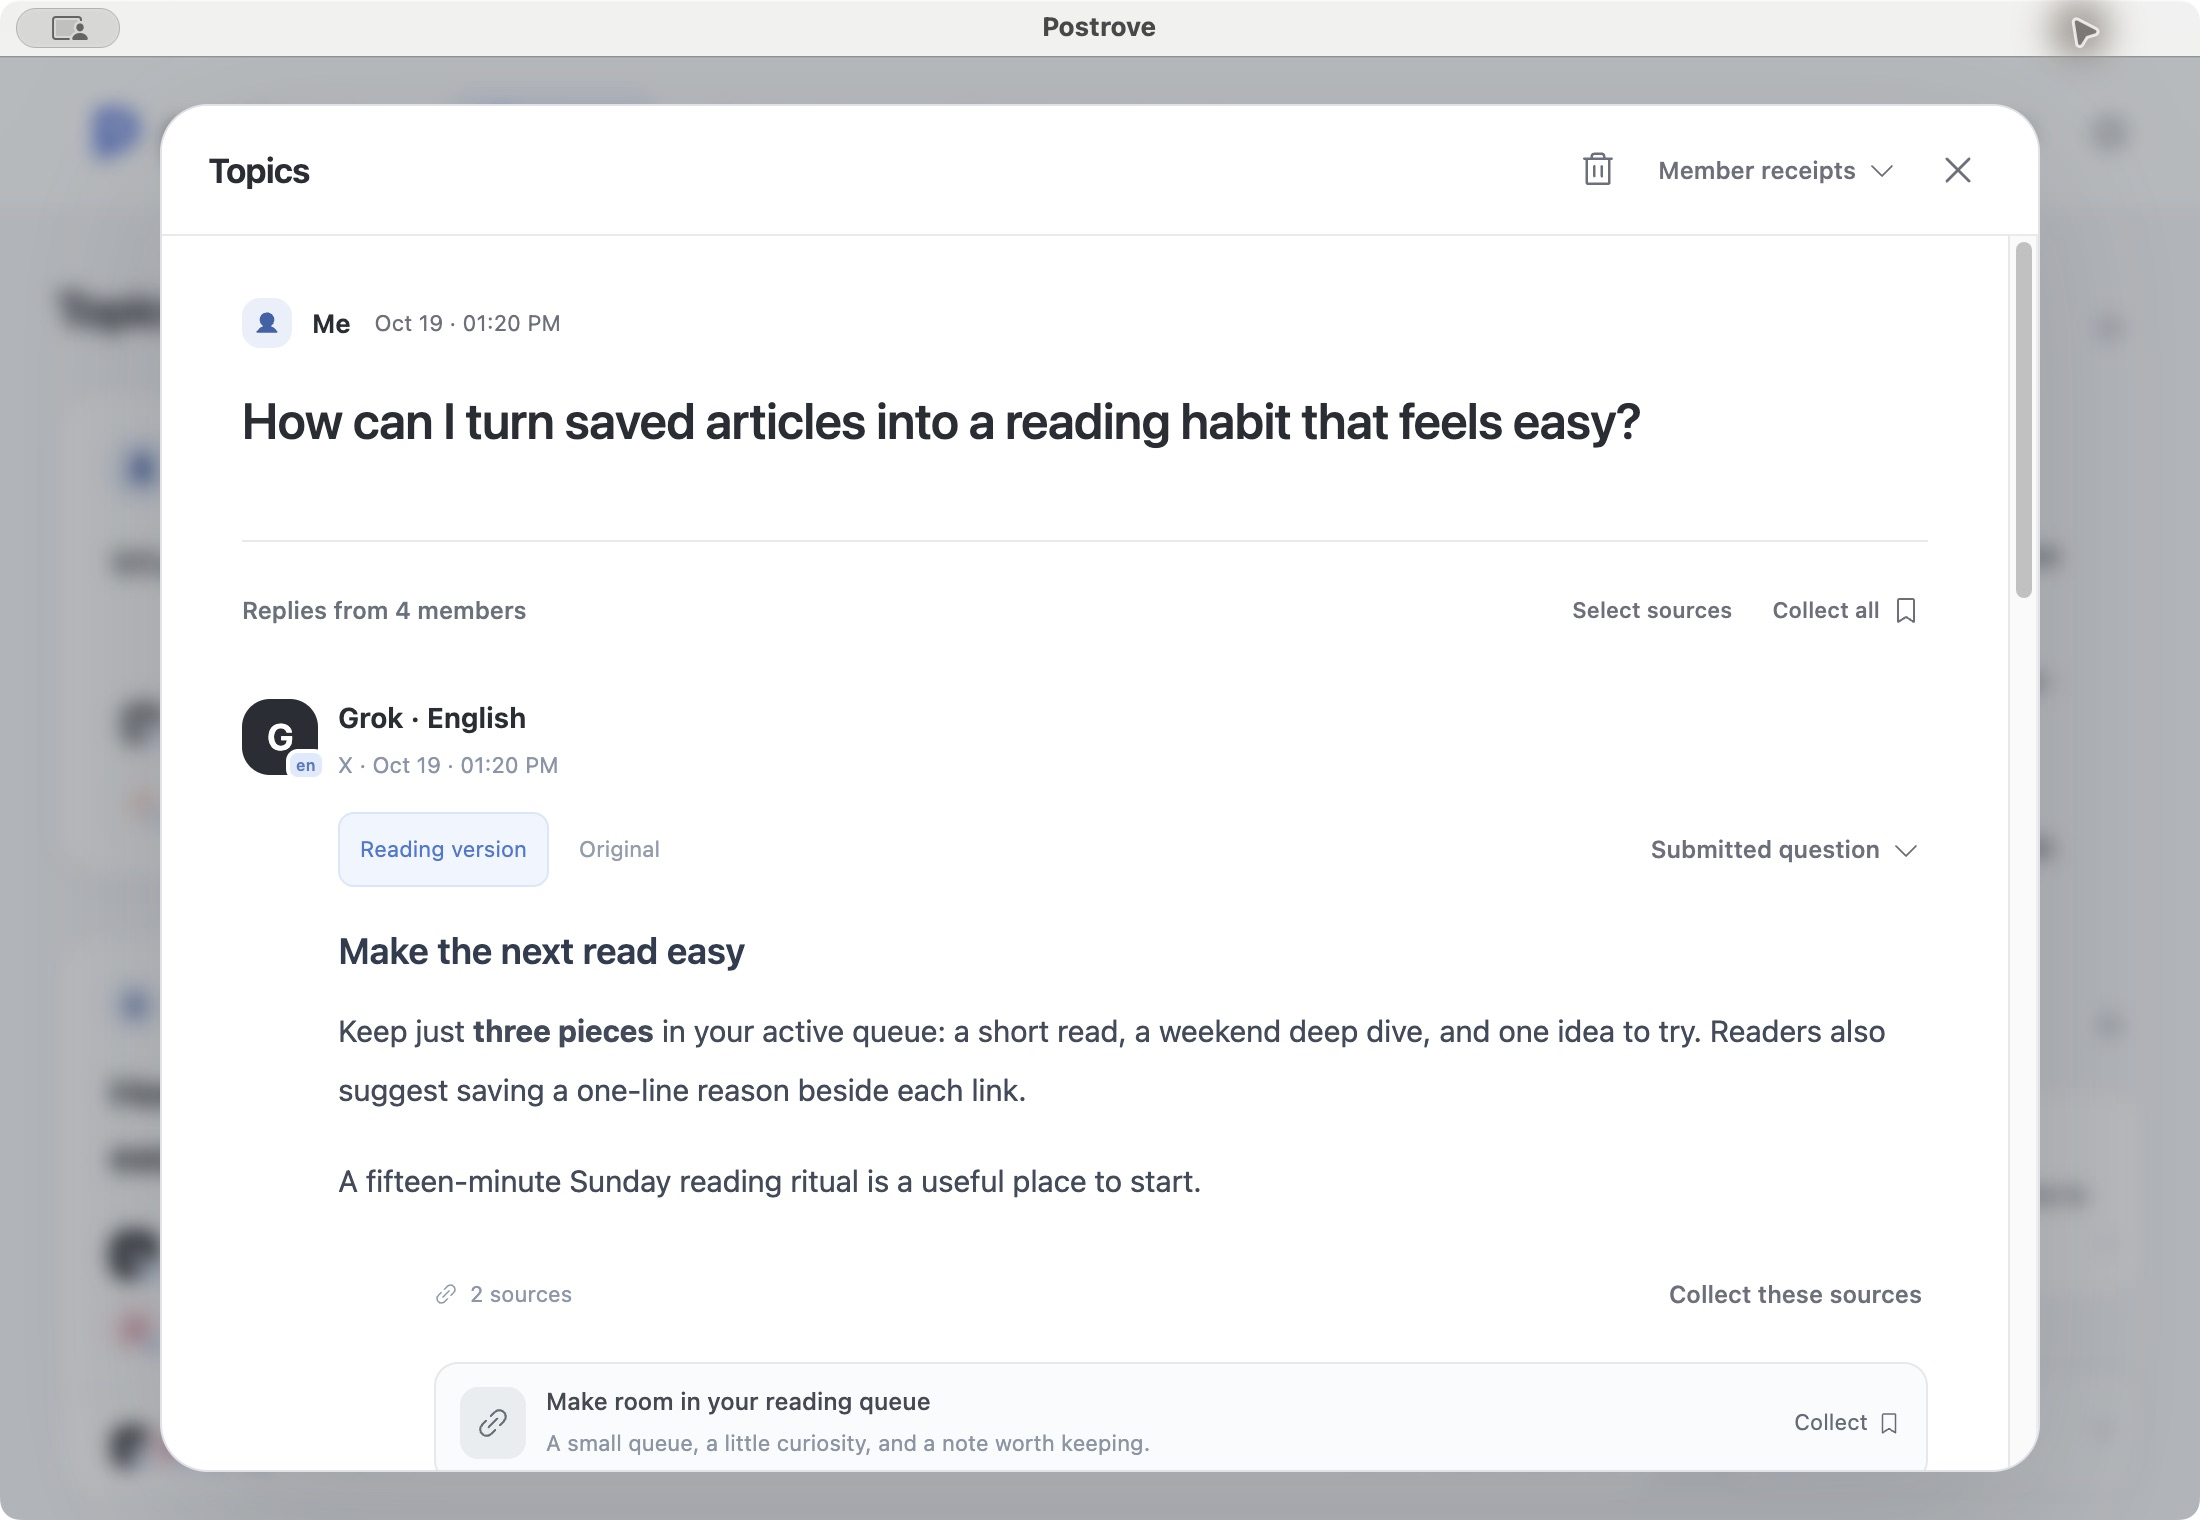
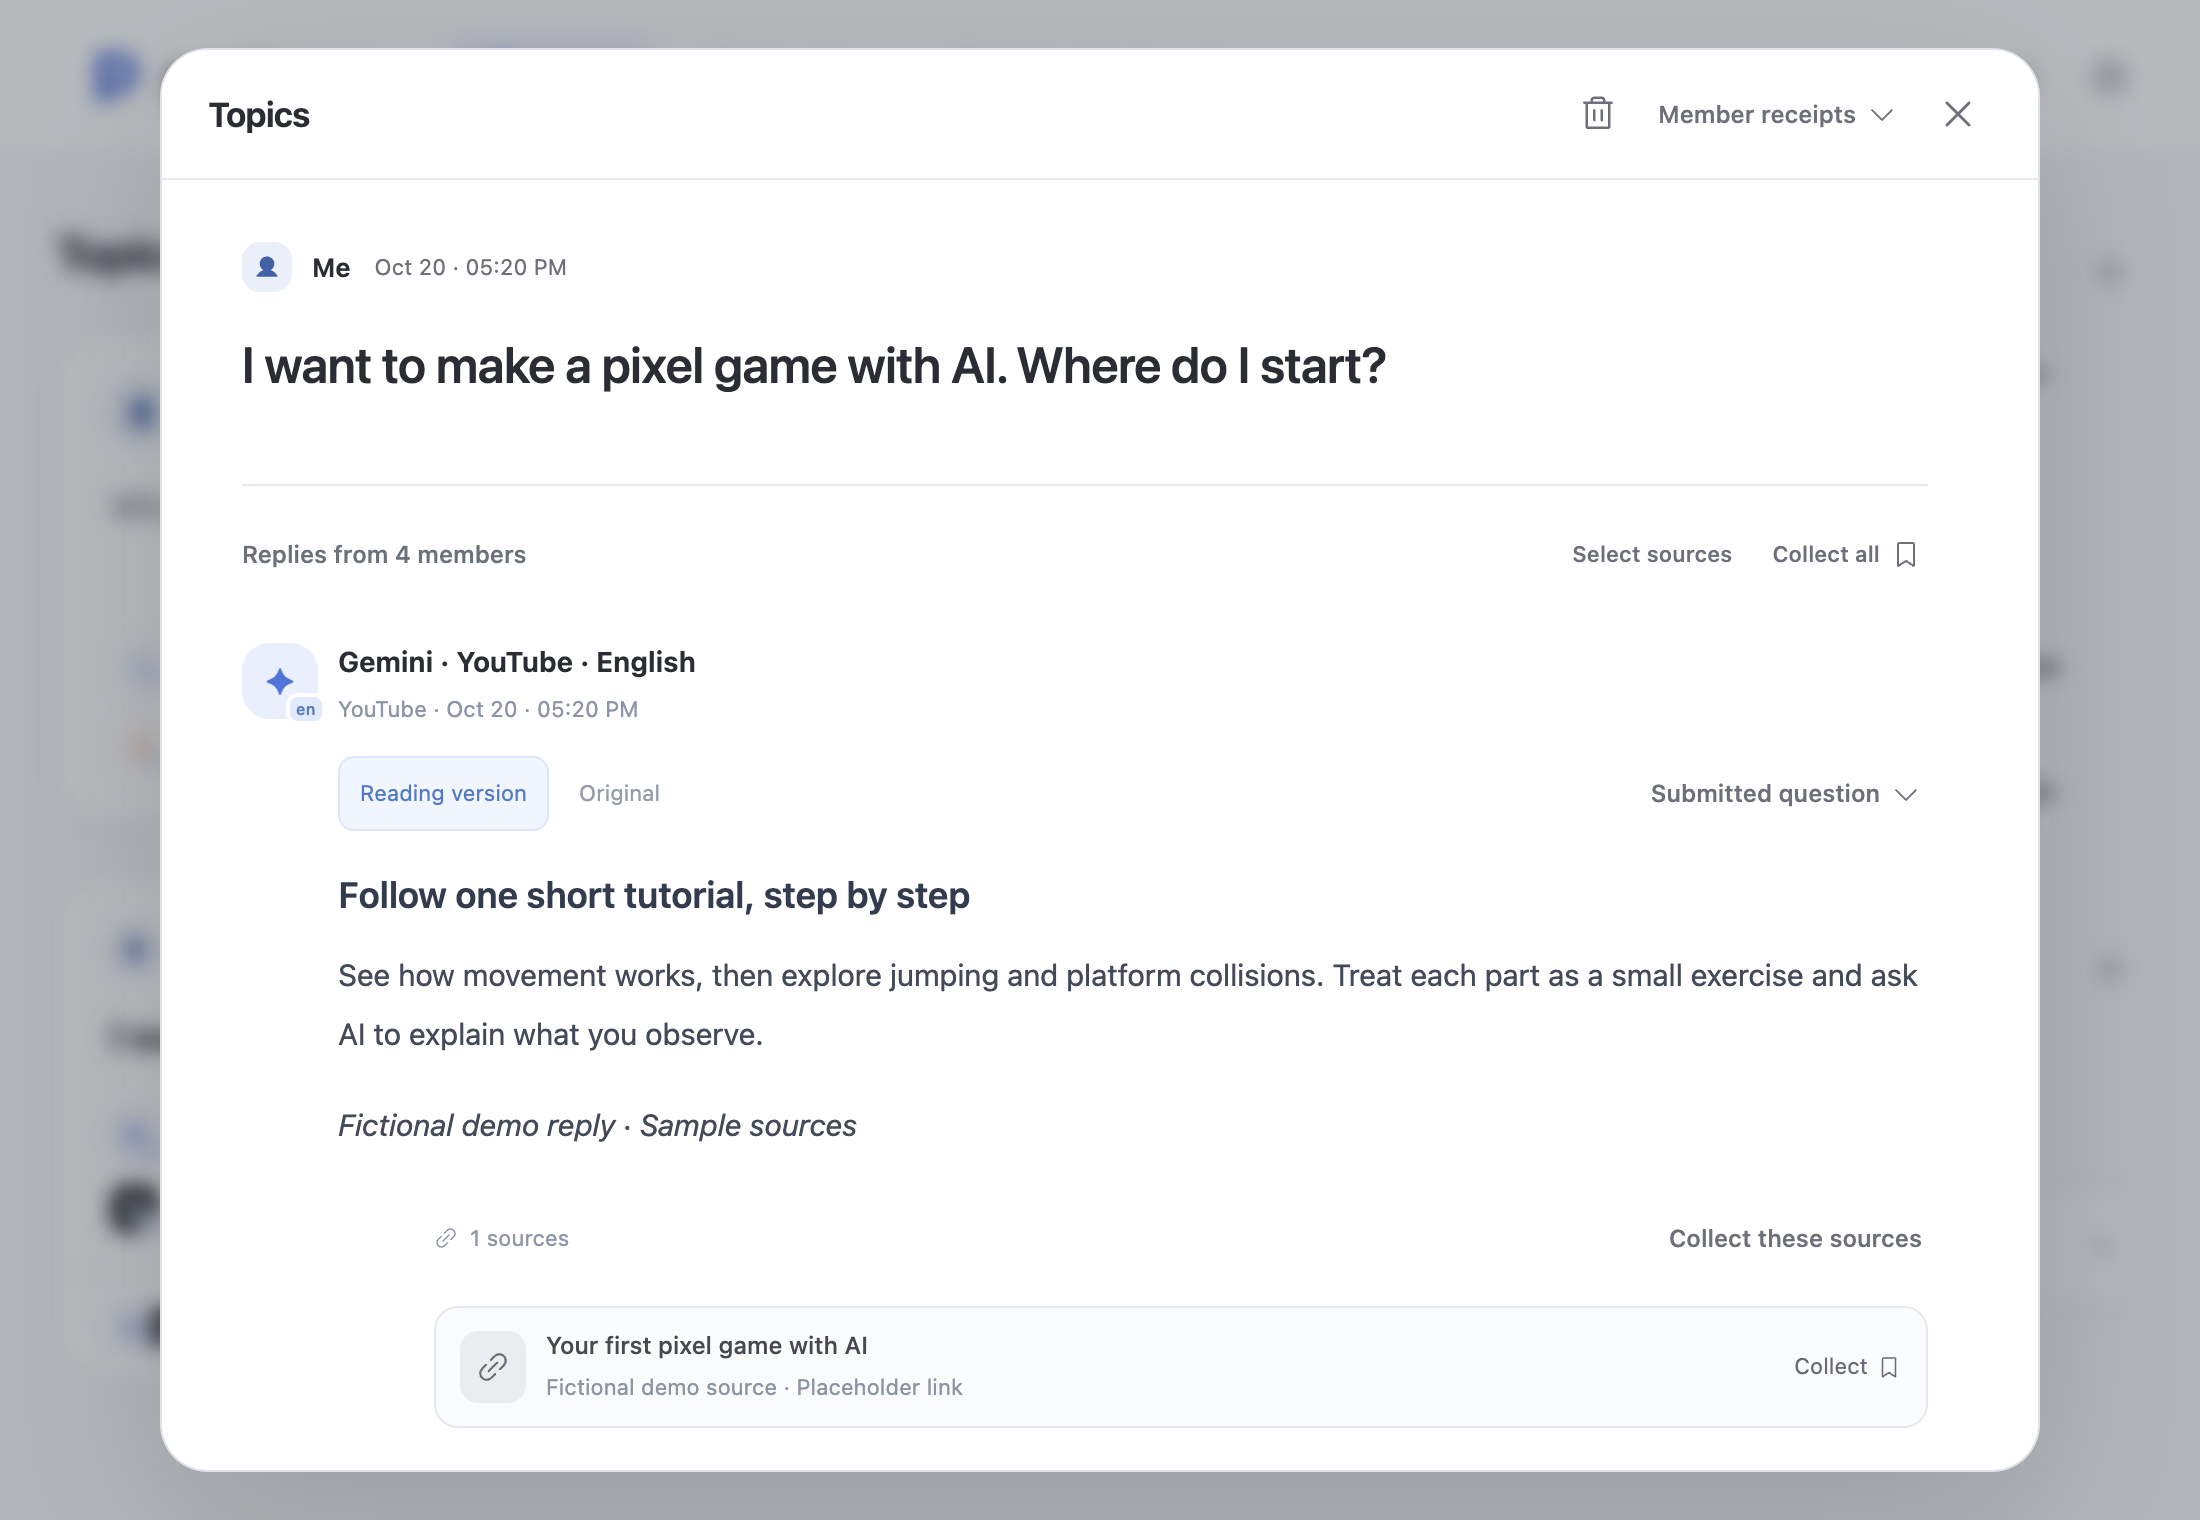
fix: align product screenshots with pixel-game demo

diff --git a/website/main.js b/website/main.js
@@ -44,12 +44,10 @@ const copy = {
     windowsDownload: "Download for Windows",
     footerTagline: "Ask · Save · Read",
     previewAlts: {
-      topics:
-        "Postrove topics with independent replies from platform AI members",
-      topic:
-        "A Postrove topic with member replies and sources ready to collect",
+      topics: "Ask how to make a first pixel game with AI",
+      topic: "Read independent replies and collect a pixel-game tutorial",
       reading:
-        "A saved article with a reading version, summary, and original-text switch",
+        "Read a saved pixel-game tutorial with its summary, illustration, and original-text switch",
     },
   },
   "zh-CN": {
@@ -97,9 +95,9 @@ const copy = {
     windowsDownload: "下载 Windows 版",
     footerTagline: "提问 · 收藏 · 阅读",
     previewAlts: {
-      topics: "话题首页：查看不同平台 AI 成员的独立回复",
-      topic: "话题详情：阅读成员回答，将有用的来源收进阅读库",
-      reading: "阅读页：查看译文、摘要和配图，随时切回原文",
+      topics: "发起话题：我想用 AI 做一个像素小游戏，应该从哪里开始？",
+      topic: "话题详情：阅读成员回答，将像素小游戏教程收进阅读库",
+      reading: "阅读页：查看像素小游戏教程的译文、摘要和配图，随时切回原文",
     },
   },
 };

diff --git a/website/index.html b/website/index.html
@@ -160,7 +160,7 @@
               width="2200"
               height="1520"
               fetchpriority="high"
-              alt="Postrove topics with independent replies from platform AI members"
+              alt="Ask how to make a first pixel game with AI"
             />
           </div>
           <figcaption data-copy="screenshotCaption">

diff --git a/README.md b/README.md
@@ -12,7 +12,7 @@ Ask a question across platforms, compare independent replies, and save useful so
 
 [Download for macOS](https://github.com/huggon1/postrove/releases/latest) · [Download for Windows](https://github.com/huggon1/postrove/releases/latest) · [Getting started](#installation-and-use)
 
-![Topics with independent replies from platform AI members](assets/screenshots/topics-en.png)
+![Ask how to make a first pixel game with AI](assets/screenshots/topics-en.png)
 
 _Screenshots show the current source interface with fictional questions, replies, sources, and reading material. Published packages follow their release notes._
 
@@ -22,7 +22,7 @@ _Screenshots show the current source interface with fictional questions, replies
 
 Start a topic and choose its members. Each member answers independently with its platform's posts and sources. Open the topic to read its replies, inspect member receipts, and collect individual, selected, or all sources into Reading.
 
-![A topic with member replies and sources ready to collect](assets/screenshots/topic-en.png)
+![Read independent replies and collect a pixel-game tutorial](assets/screenshots/topic-en.png)
 
 | Content platform | Platform AI            | Sign in to                        | Expert language  | Status       |
 | ---------------- | ---------------------- | --------------------------------- | ---------------- | ------------ |
@@ -47,9 +47,9 @@ Choose your reading language separately from the app language. Replies and colle
 
 Collect posts and articles from different platforms in one place. Read their text, images, and summaries in your chosen language.
 
-For example, when you find a long technical article you want to read later, forward its link to your configured Telegram or Feishu app bot. Postrove retrieves the content and prepares a summary, so you can skim the summary first and read the article later in the app. You can also add links directly.
+For example, ask “I want to make a pixel game with AI. Where do I start?” Compare the members' replies, then collect a useful tutorial into Reading. You can also add its link directly or forward it to your configured Telegram or Feishu app bot. Postrove retrieves the available content and prepares a summary for later reading.
 
-![A saved article with a translated reading version, summary, and original-text switch](assets/screenshots/reading-en.png)
+![Read a saved pixel-game tutorial with its summary, illustration, and original-text switch](assets/screenshots/reading-en.png)
 
 Reading rules define the content to capture. The Agent loads the relevant Skill for the observed page. Other pages use the general web rule, with the Agent identifying the main content and how to read it.
 

diff --git a/assets/screenshots/README.md b/assets/screenshots/README.md
@@ -2,10 +2,12 @@
 
 The root READMEs use three scenes in English and Simplified Chinese:
 
-- `topics-*.png`: topic workspace, member selection, and scheduled messages.
-- `topic-*.png`: an independent member reply with collectible sources.
-- `reading-*.png`: a saved article with a reading version and an original-text switch.
+- `topics-*.png`: a question about making a first pixel game with AI and its selected members.
+- `topic-*.png`: an independent member reply with a tutorial source to collect.
+- `reading-*.png`: the saved tutorial, its summary, pixel-game illustration, reading version, and original-text switch.
 
-The images capture the running application with separate local profiles. Questions, replies, source identities, and reading material are fictional examples. The reading illustration was created for these examples. Each image is a 2200 × 1520 PNG.
+The images reuse the [promotional film's application captures](../../scripts/promo-video/README.md#application-captures). Questions, replies, source identities, and reading material are fictional examples. Each 2200 × 1520 PNG starts at the renderer's content origin and includes the application's own navigation or dialog header.
+
+Run `npm run screenshots:readme` to copy the six validated promotional captures here. To refresh the running-application captures first, run `node scripts/promo-video/capture-demo.mjs`, then synchronize them. The [homepage build](../../docs/development.md#preview-the-homepage) consumes these same six files.
 
 Refresh both language sets when the corresponding interface changes. Keep the sample-data caption beside the first screenshot in each root README.
